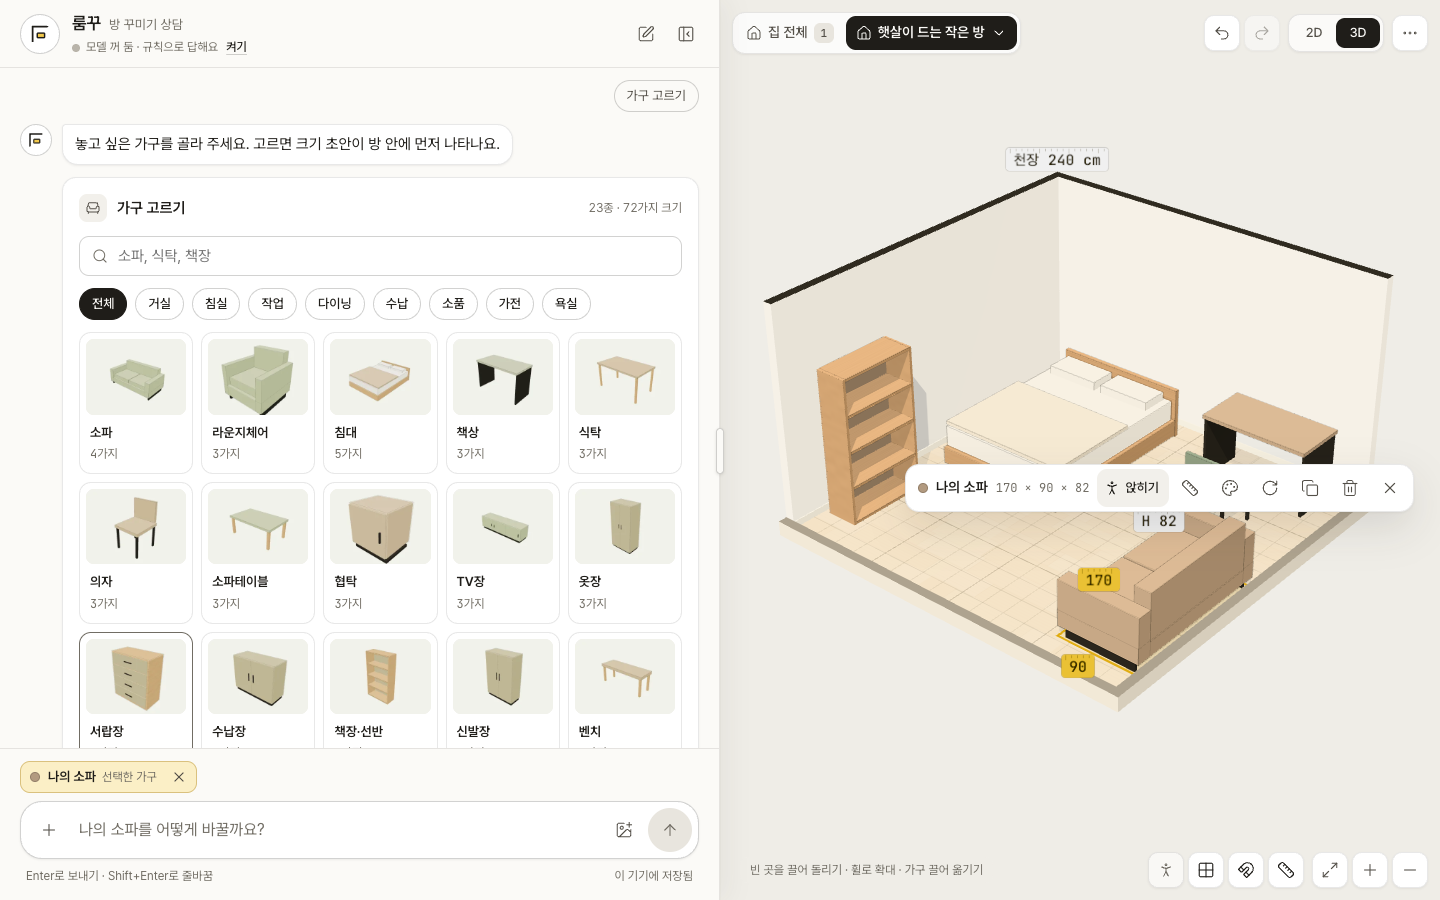
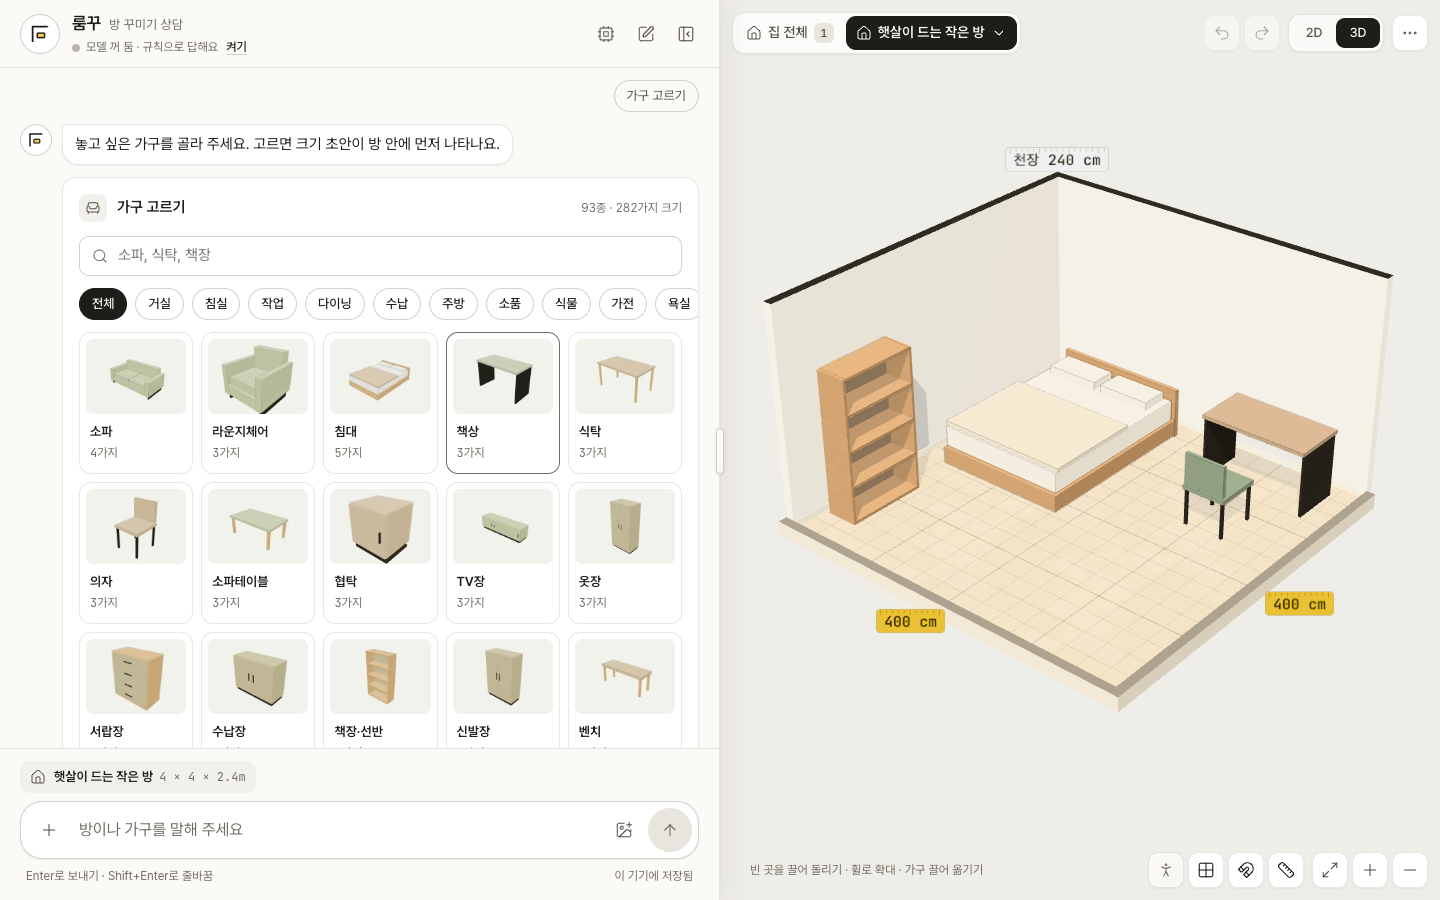
docs: 가구 93종을 문서에 반영하고 가구 고르기 화면을 다시 찍는다

diff --git a/AGENTS.md b/AGENTS.md
@@ -16,7 +16,7 @@ Codex와 Claude Code는 이 파일과 `.agents/skills/room-ggu-pipeline/SKILL.md
 - 모델이 쓴 답 문장은 앱이 바로잡은 것이 없고, 바꾼 것 없이 “했어요”라고 하지 않을 때만 보여 준다(`interpret.js`의 `done`). 앱이 한 일과 다른 답을 화면에 내지 않는다. 새 공간을 붙인 답은 실제로 붙은 공간과 벽을 넣어 앱이 쓴다.
 - 생성형 UI는 A2UI 1.0 공식 코어(`@a2ui/web_core`)와 자체 Preact 렌더러를 쓴다. `src/ui-schema.js`의 `SURFACE_KINDS`가 원본이며 `src/a2ui-catalog.js`가 17개 도구의 커스텀 카탈로그를 만든다. 모델은 계속 `MODEL_UI`·`MODEL_ACTIONS`의 간결한 값만 고르고, 검증한 계획을 `src/a2ui.js`가 createSurface/updateComponents/updateDataModel 메시지로 바꾼다. `A2uiSurface`는 SDK의 NodeResolver가 해석한 도구만 `surfaces.jsx`의 NativeTool로 렌더링한다. 접힌 카드 열기는 A2UI action을 거친다. 내부 입력·배치·충돌 검증은 기존 store/ops가 맡는다. 모델이 만든 HTML·CSS·JS와 외부의 임의 wire JSON을 실행하지 않는다. 카탈로그는 빌드 때 `a2ui/catalog.json`으로 공개하며, 대화 저장본은 기존 명세로 보관한 뒤 복원 때 메시지를 다시 만든다.
 - 상태 변경은 `src/app/ops.js`(검증·경계·충돌·빈자리)가 맡는다. 새 기능도 이 경계를 지킨다.
-- 화장실을 포함한 8가지 공간 유형·24개 크기 초안, 욕실 설비 3종(변기·세면대·샤워부스)을 포함한 23종·72가지 가구 치수 초안을 제공한다. 최대 12개 공간의 가구 편집은 직사각형 로컬 도면에서 하고, `scope: house`의 집 전체 2D·3D는 같은 `floorplan.positions`로 공간을 연결한다. 2D에서 공간을 끌어 배치하고, 3D에서 시점을 돌리거나 공간을 선택·두 번 눌러 방을 편집한다. 단일 3D 렌더러를 재사용한다. 공유 벽은 한 번만 만들며 내부 벽은 낮춘 단면이고, 연결 문은 배치 초안이다. 공간 드래그는 5cm 단위·공유 벽 스냅을 적용하고 중첩을 거절한다. 공간의 크기나 유형을 바꾸면 이웃이 맞닿아 있던 벽은 그 자리에 두고 반대쪽으로 늘이거나 줄이며, 양쪽에 이웃이 있으면 먼 쪽 이웃을 달라진 길이만큼 함께 옮기고, 그래도 겹치는 공간은 가장 적게 움직여 밀어낸다(`ops.reseatSpace`, `ops.setRoom`이 부른다). 이미 겹쳐 있는 공간은 “겹치잖아” 같은 말이나 배치 확인·집 전체 도구의 단추로 떼어 놓는다(`ops.separateSpaces`). 고른 공간은 이름표의 돌리기 단추나 “이 방 돌려줘”로 통째로 90° 돌린다(`ops.rotateSpace`: 가로·세로와 가구·아바타가 함께 돌고, 그 공간에 직접 정해 둔 문은 자동 문으로 돌아간다). 유형 이름을 딴 기본 이름(“나의 거실”)은 유형을 바꾸면 따라 바뀌고 같은 이름이 있으면 번호를 붙인다. 직접 지은 이름은 건드리지 않는다. 실측·시공 도면으로 표시하지 않는다.
+- 화장실을 포함한 8가지 공간 유형·24개 크기 초안, 욕실 설비(변기·세면대·샤워부스·욕조)와 주방 하부장·반려동물 용품·식물·아이·운동 기구를 포함한 93종·282가지 가구 치수 초안을 제공한다. 새 가구의 3D 형상은 `src/furniture-more.js`에 있고, 벽에 거는 물건(상부장·벽걸이 에어컨·커튼)과 다른 가구 위에 올리는 물건(컴퓨터·TV·전자레인지)은 아직 없다고 답한다. 최대 12개 공간의 가구 편집은 직사각형 로컬 도면에서 하고, `scope: house`의 집 전체 2D·3D는 같은 `floorplan.positions`로 공간을 연결한다. 2D에서 공간을 끌어 배치하고, 3D에서 시점을 돌리거나 공간을 선택·두 번 눌러 방을 편집한다. 단일 3D 렌더러를 재사용한다. 공유 벽은 한 번만 만들며 내부 벽은 낮춘 단면이고, 연결 문은 배치 초안이다. 공간 드래그는 5cm 단위·공유 벽 스냅을 적용하고 중첩을 거절한다. 공간의 크기나 유형을 바꾸면 이웃이 맞닿아 있던 벽은 그 자리에 두고 반대쪽으로 늘이거나 줄이며, 양쪽에 이웃이 있으면 먼 쪽 이웃을 달라진 길이만큼 함께 옮기고, 그래도 겹치는 공간은 가장 적게 움직여 밀어낸다(`ops.reseatSpace`, `ops.setRoom`이 부른다). 이미 겹쳐 있는 공간은 “겹치잖아” 같은 말이나 배치 확인·집 전체 도구의 단추로 떼어 놓는다(`ops.separateSpaces`). 고른 공간은 이름표의 돌리기 단추나 “이 방 돌려줘”로 통째로 90° 돌린다(`ops.rotateSpace`: 가로·세로와 가구·아바타가 함께 돌고, 그 공간에 직접 정해 둔 문은 자동 문으로 돌아간다). 유형 이름을 딴 기본 이름(“나의 거실”)은 유형을 바꾸면 따라 바뀌고 같은 이름이 있으면 번호를 붙인다. 직접 지은 이름은 건드리지 않는다. 실측·시공 도면으로 표시하지 않는다.
 - 새 공간은 지금 방의 벽에 맞닿는 빈자리에, 정한 크기 그대로 놓는다(`ops.addSpace`). 대화에서 “화장실 옆에”·“침실 오른쪽에”라고 기준 공간을 말했으면 그 공간의 벽에 붙인다(`planner.refSpace`). 말한 벽에 자리가 없으면 다른 벽을 찾고 답에서 알린다. 유형을 말하지 않고 방을 추가하자고 하면 만들지 않고 묻는다. 집 전체에서는 고른 공간의 벽 바깥 `+` 손잡이나 위쪽 `공간 추가`로 붙일 벽과 종류를 고르고, 고르기 전에 붙을 자리와 크기를 점선으로 미리 보여 준다(`ops.sideSlot`, `store.previewSpace`). 맞닿은 벽의 문은 `floorplan.sharedOpening` 하나로 정하고 기본은 넓은 공간 쪽으로 연다. 문 설정은 `floorplan.doors`에 공간 쌍마다 위치(`offset`)·폭(`width`, 60~120cm)·여는 방향(`flip`)·막기(`closed`)로 저장하고 `ops.setDoor`로만 바꾼다. 설정이 없으면 벽 가운데의 80cm 가정 문이다. 직접 옮기거나 폭을 정한 문은 실선, 자동으로 놓인 문은 점선으로 그린다. 2D에서 문을 끌어 옮기고, 눌러서 뜨는 문 막대나 집 전체 도구의 문 목록에서 폭·방향·막기를 바꾼다. 방별 2D·3D도 `roomOpenings`로 같은 문 자리를 벽에 비운다. 화장실 설비(변기·세면대·샤워부스)는 가구다. 화장실을 만들거나 유형을 화장실로 바꿀 때 `ops.fillBathroom`이 `bathroomFixtures(room, openings)`의 배치 초안 자리(문 맞은편 벽부터)에 가구로 놓고, 그 뒤로는 다른 가구처럼 고르고 옮기고 돌리고 빼고 가구 고르기의 욕실 분류에서 다시 놓는다. 화장실이 아니게 되면 손대지 않은 설비 초안(`FIXTURE_SOURCE`)만 치운다. 화장실 바닥은 기본이 타일이고 다른 공간처럼 바꿀 수 있다. 방 이름·키 이름표는 화면 위 DOM 이름표(`Stage.jsx`)이고, 이미지로 저장할 때 `drawTags`로 같은 자리에 그린다.
 - 사진과 설명을 함께 보내면 SigLIP으로 종류를 먼저 고르고 같은 초안에 설명을 반영한다. 확신이 낮으면 설명을 보관했다가 사용자가 후보를 고른 뒤 반영한다. 숫자·색·동작은 기존 상담 모델/규칙과 `ops.js` 검증을 거친다. 사진 종류는 `src/app/photo.js`가 20가지 가구 이름 가운데 고르며(욕실 설비는 사진 판별 대상이 아니다) 사진만으로 실제 치수를 재지 않는다. `src/ai.js`가 상담·사진을 별도 Worker로 실행하므로 Gemma 다운로드 중에도 사진을 판별한다. 한쪽의 취소·오류는 다른 쪽에 영향을 주지 않는다. 진행률도 `ai.downloads.text/vision`에 나눠 두고 사용자가 시작한 사진 안내를 아일랜드에 먼저 보여 준 뒤 진행 중인 상담 모델 안내로 돌아온다. 사진이 바뀌거나 판별 중 공간을 옮기면 늦은 결과로 새 사진·다른 공간의 초안을 덮어쓰지 않는다. 휴대 기기의 다운로드 전 동의는 사진+설명에도 적용한다.
 - 신체 측정·키 입력을 필수 흐름에 추가하지 않는다. 사진만으로 실제 cm 치수를 측정했다고 표시하지 않는다.

diff --git a/README.md b/README.md
@@ -12,7 +12,7 @@
 
 | 벽·바닥 비교 | 가구 고르기 | 모바일 |
 | --- | --- | --- |
-| ![벽과 바닥 도구가 지금과 바꾸기 전 모서리를 비교한다](docs/screenshots/generated-ui.png) | ![욕실 설비를 포함한 23종 가구 썸네일](docs/screenshots/catalog.png) | ![모바일 하단 대화 시트와 선택한 소파의 도구 막대](docs/screenshots/mobile.png) |
+| ![벽과 바닥 도구가 지금과 바꾸기 전 모서리를 비교한다](docs/screenshots/generated-ui.png) | ![주방·반려동물·식물을 포함한 93종 가구 썸네일](docs/screenshots/catalog.png) | ![모바일 하단 대화 시트와 선택한 소파의 도구 막대](docs/screenshots/mobile.png) |
 
 | 벽의 +로 공간 붙이기 | 문 옮기기·폭 바꾸기 | 모델 준비 알림 |
 | --- | --- | --- |
@@ -28,7 +28,7 @@
 
 내추럴·미니멀·북유럽·재팬디·모던·빈티지·인더스트리얼·코지 8개 테마를 제공합니다. “침실 3개 욕실 2개”, “가족들이 책 읽기 좋은 집”처럼 구성을 더하고, 적용 후에는 “안방 침대 가로 180cm로”, “거실 벽은 세이지로”처럼 방 이름을 붙여 고칩니다. 같은 종류의 가구가 여럿이면 고칠 대상을 먼저 고릅니다.
 
-지원 범위는 40~660m², 최대 12개 공간과 현재 가구 카탈로그 23종입니다. 방 크기는 전체 면적을 나눈 배치 초안이며 시공 도면이 아닙니다. 자리가 없어 놓지 못한 가구는 초안 카드에 따로 표시합니다. 모델을 꺼 둔 경우에는 기본 구성임을 표시합니다.
+지원 범위는 40~660m², 최대 12개 공간과 현재 가구 카탈로그 93종입니다. 방 크기는 전체 면적을 나눈 배치 초안이며 시공 도면이 아닙니다. 자리가 없어 놓지 못한 가구는 초안 카드에 따로 표시합니다. 모델을 꺼 둔 경우에는 기본 구성임을 표시합니다.
 
 ## 사용하기
 
@@ -100,7 +100,7 @@ v5.9부터 **A2UI 1.0 공식 코어**와 룸꾸 전용 카탈로그로 도구를
 
 | 경로 | 역할 |
 | --- | --- |
-| `src/catalog.js`, `src/data.js` | 가구·공간 카탈로그(욕실 설비 3종 포함 23종), 저장 형식 v5 검증과 v1~v4 이전, 경계·충돌 |
+| `src/catalog.js`, `src/data.js` | 가구·공간 카탈로그(욕실·주방·반려동물·식물·아이·운동 포함 93종), 저장 형식 v5 검증과 v1~v4 이전, 경계·충돌 |
 | `src/avatar.js`, `src/seating.js`, `src/avatar-three.js` | 키·자세·가구 참조, 앉는 면·눕는 면, 같은 축척의 아바타 모형 |
 | `src/app/design.js` | 집 전체 상담 계약, 공간 구성·가구 구성·테마 검증 |
 | `src/app/models.js`, `src/ui/ModelIsland.jsx` | 상담 모델 후보와 크기, 받는 중·준비 중을 알리는 방 위 캡슐 |
@@ -114,7 +114,7 @@ v5.9부터 **A2UI 1.0 공식 코어**와 룸꾸 전용 카탈로그로 도구를
 | `src/app/store.js` | 대화·초안·선택·실행 취소·저장·모델 상태 |
 | `src/a2ui-catalog.js`, `src/a2ui.js`, `src/ui/A2uiSurface.jsx` | A2UI 1.0 카탈로그, 공식 코어의 메시지·바인딩·이벤트, Preact 렌더러 연결 |
 | `src/ui/` | Preact 화면: 상담 대화 열(`Sheet`·`Thread`·`Composer`), 방 위 도구(`Stage`), 생성형 컴포넌트 |
-| `src/scene.js`, `src/plan.js`, `src/furniture.js` | 3D 모형, 2D 평면도, 파라메트릭 가구 |
+| `src/scene.js`, `src/plan.js`, `src/furniture.js`, `src/furniture-more.js` | 3D 모형, 2D 평면도, 파라메트릭 가구(주방·반려동물·식물·아이·운동 가구는 `furniture-more.js`) |
 | `src/ai.js`, `src/ai-worker.js` | 브라우저 Worker의 WebLLM(상담)·Transformers.js(사진) |
 | `eval/photo/` | 실제 사진 118장 판별 평가(사진 목록·실행·채점·결과) |
 

diff --git a/docs/verification.md b/docs/verification.md
@@ -1,5 +1,14 @@
 # 검증 기록 · 2026-11-16
 
+## v5.10 가구 93종 · 2026-11-17
+
+- 가구를 23종 72가지에서 **93종 282가지**로 늘렸다. 새 분류는 주방, 식물, 반려동물, 아이, 운동·취미다. 주방은 싱크대·조리대 하부장·쿡탑 하부장·아일랜드·키큰장·그릇장·렌지대·식기세척기·김치냉장고·와인셀러·분리수거함이고, 다이닝에 바 테이블·바 스툴을 더했다. 욕실에는 욕조·욕실 수납장·빨래바구니를 더했다. 반려동물은 캣타워·고양이 화장실·스크래처·강아지 집·펫 방석·켄넬·펫 울타리·급식대·어항·새장·소동물 케이지 11종이다. 화분은 식물 분류로 옮기고 잎 큰 식물·실내 나무·다육·덩굴 식물·플랜트 스탠드를 더했다. 거실·침실·작업·가전·아이·운동에도 빈백·화장대·이층침대·사무용 의자·스탠딩 데스크·건조기·스탠드 에어컨·아기침대·러닝머신·피아노·자전거 등을 더했다.
+- 형상은 기존과 같이 상자·원기둥·타원체를 치수에 맞춰 조립한다(`src/furniture-more.js`). 상자의 외곽선을 상자의 자식으로 옮겨 기울인 상자(안마의자 등받이, 거울, 지붕)에서도 외곽선이 함께 기운다. 모든 프리셋 282개의 형상을 만들고, 분류별 썸네일과 주방 방의 2D·3D를 눈으로 확인했다.
+- 놀이매트·요가매트는 러그처럼 다른 가구와 겹쳐도 되는 바닥 가구다(`FLAT_TYPES`). 2D에서 둥근 가구(식물·스툴·펫 방석·새장)와 싱크대·쿡탑·욕조 기호를 따로 그린다.
+- 이름은 긴 이름이 먼저 잡힌다: 김치냉장고·와인셀러는 냉장고가 아니고 바 스툴·하이체어·사무용 의자는 의자가 아니고 고양이 화장실은 공간이 아니다. “화분 받침”, “강아지 방석”, “책상 서랍”처럼 띄어 쓴 이름도 한 가구로 읽는다. 모든 가구 이름이 그 가구로 읽히는지 단위 검사로 확인한다.
+- 목록에 없는 물건 표에서 가구가 된 16개(안마의자·에어컨·피아노·캣타워 등)를 뺐다. 벽에 거는 상부장·후드, 다른 가구 위에 두는 컴퓨터·TV·전자레인지·정수기, 커튼·액자는 계속 없다고 답한다. 벽걸이 에어컨은 아직 스탠드 에어컨으로 읽힌다.
+- 모델 스키마의 가구 목록은 TYPES에서 만들어지므로 93종이 된다. 목록이 길어진 뒤 실제 Gemma·Qwen 상담 정확도는 이번에 다시 재지 않았다. 사진 판별은 그대로 20가지다.
+
 ## v5.9 A2UI 1.0 연결 · 2026-11-17
 
 - 공식 코어 `@a2ui/web_core@0.15.0`의 MessageProcessor·NodeResolver·Catalog를 쓴다. 기존 17개 도구가 커스텀 카탈로그 → A2UI 메시지 → SDK 바인딩 → Preact 카드 경로로 표시된다. 카탈로그와 라이선스 사본을 정적 빌드에 포함한다.
